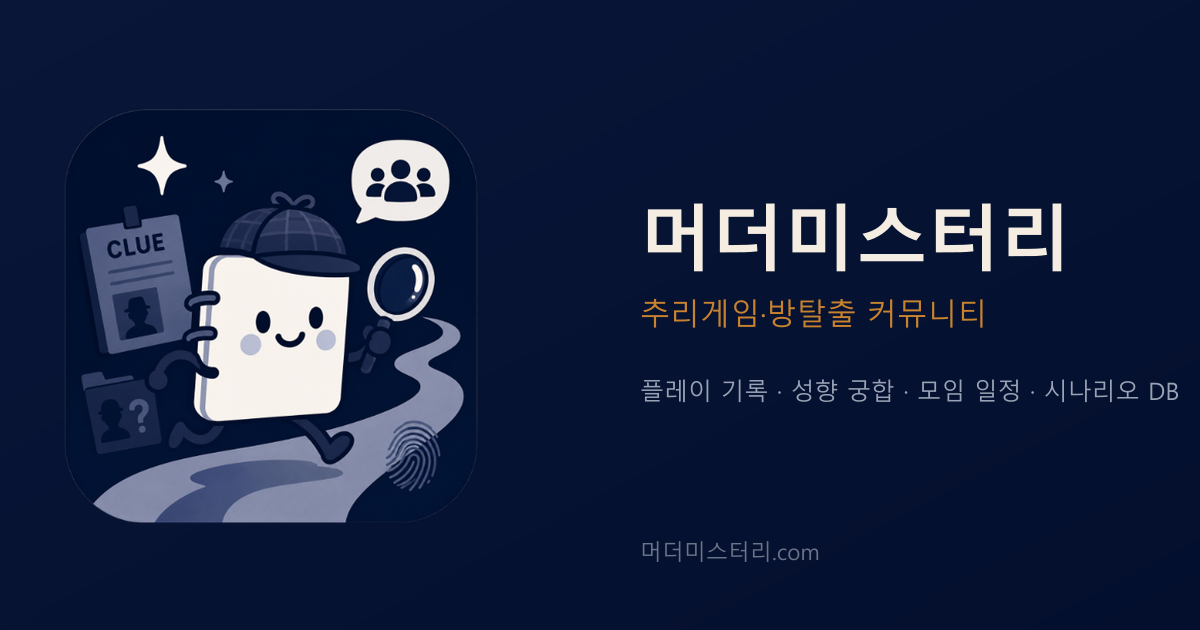
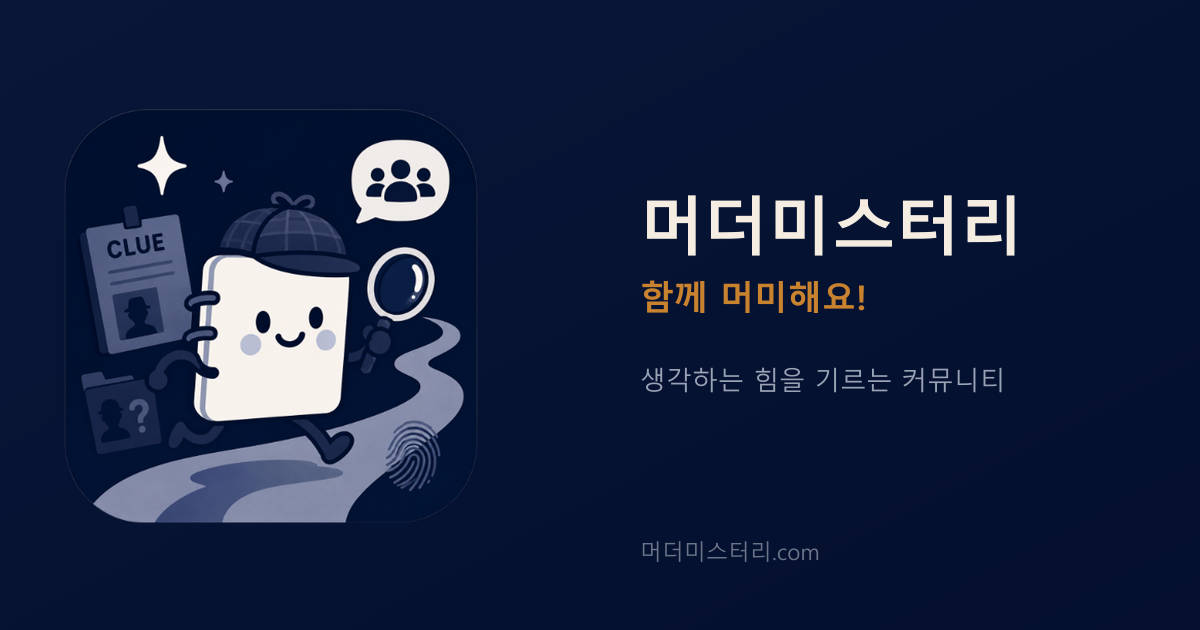
링크 미리보기 문구를 '함께 머미해요!'로, 태그라인을 '생각하는 힘을 기르는 커뮤니티'로 변경
- index.html title/og:title/twitter:title → "머더미스터리 - 함께 머미해요!"
- description류에서 "추리게임·방탈출을 좋아하는 사람들의" 문구를 "생각하는 힘을 기르는 커뮤니티"로 교체
- PWA manifest description도 동일하게 변경
- og-image.png 재생성 (새 문구 반영)

Changed region(s): [[0.5242, 0.3016, 0.8942, 0.5429], [0.5242, 0.573, 0.9867, 0.6333]]

diff --git a/index.html b/index.html
@@ -4,20 +4,20 @@
 <meta charset="UTF-8" />
 <meta name="viewport" content="width=device-width, initial-scale=1, viewport-fit=cover" />
 <meta name="theme-color" content="#14141f" />
-<title>머더미스터리 — 추리게임 커뮤니티</title>
-<meta name="description" content="머더미스터리·방탈출을 좋아하는 사람들의 모임 기록과 성향 궁합 커뮤니티" />
+<title>머더미스터리 - 함께 머미해요!</title>
+<meta name="description" content="생각하는 힘을 기르는 커뮤니티 · 모임 기록과 성향 궁합을 함께 나눠요" />
 
 <meta property="og:type" content="website" />
 <meta property="og:site_name" content="머더미스터리" />
-<meta property="og:title" content="머더미스터리 — 추리게임 커뮤니티" />
-<meta property="og:description" content="머더미스터리·방탈출을 좋아하는 사람들의 모임 기록과 성향 궁합 커뮤니티" />
+<meta property="og:title" content="머더미스터리 - 함께 머미해요!" />
+<meta property="og:description" content="생각하는 힘을 기르는 커뮤니티 · 모임 기록과 성향 궁합을 함께 나눠요" />
 <meta property="og:image" content="https://xn--9m1b93j7l01d99noww.com/og-image.png" />
 <meta property="og:image:width" content="1200" />
 <meta property="og:image:height" content="630" />
 <meta property="og:url" content="https://xn--9m1b93j7l01d99noww.com/" />
 <meta name="twitter:card" content="summary_large_image" />
-<meta name="twitter:title" content="머더미스터리 — 추리게임 커뮤니티" />
-<meta name="twitter:description" content="머더미스터리·방탈출을 좋아하는 사람들의 모임 기록과 성향 궁합 커뮤니티" />
+<meta name="twitter:title" content="머더미스터리 - 함께 머미해요!" />
+<meta name="twitter:description" content="생각하는 힘을 기르는 커뮤니티 · 모임 기록과 성향 궁합을 함께 나눠요" />
 <meta name="twitter:image" content="https://xn--9m1b93j7l01d99noww.com/og-image.png" />
 
 <link rel="icon" type="image/png" sizes="32x32" href="/icons/favicon-32.png" />

diff --git a/vite.config.js b/vite.config.js
@@ -17,7 +17,7 @@ export default defineConfig({
         id: "/",
         name: "머더미스터리",
         short_name: "머더미스터리",
-        description: "추리게임·방탈출을 좋아하는 사람들의 성향 궁합 + 모임 기록 커뮤니티",
+        description: "생각하는 힘을 기르는 사람들의 성향 궁합 + 모임 기록 커뮤니티",
         lang: "ko",
         start_url: "/",
         scope: "/",
